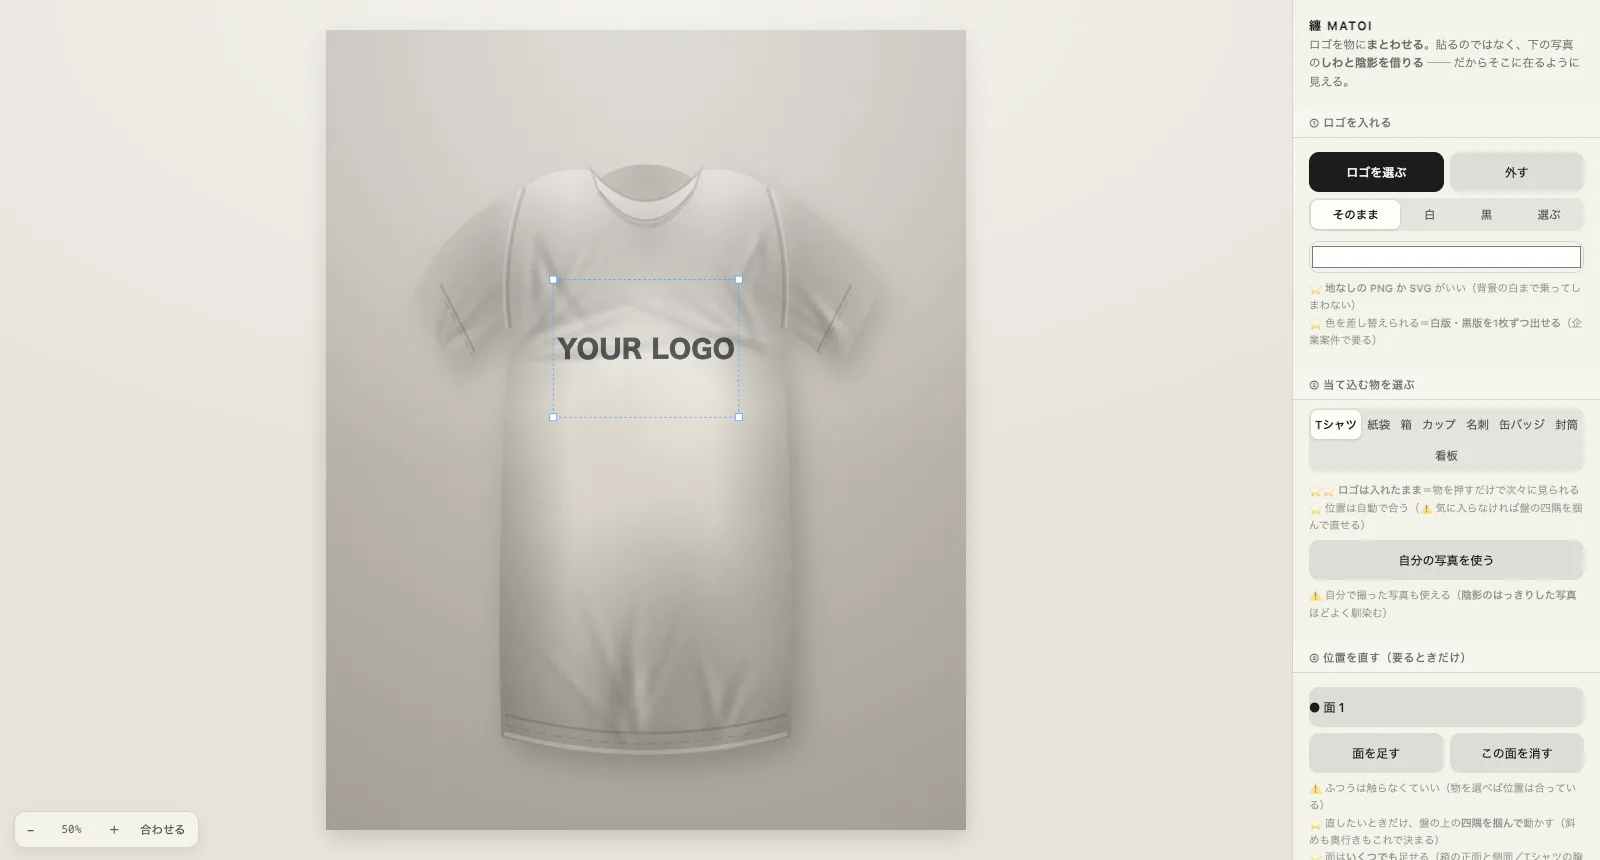
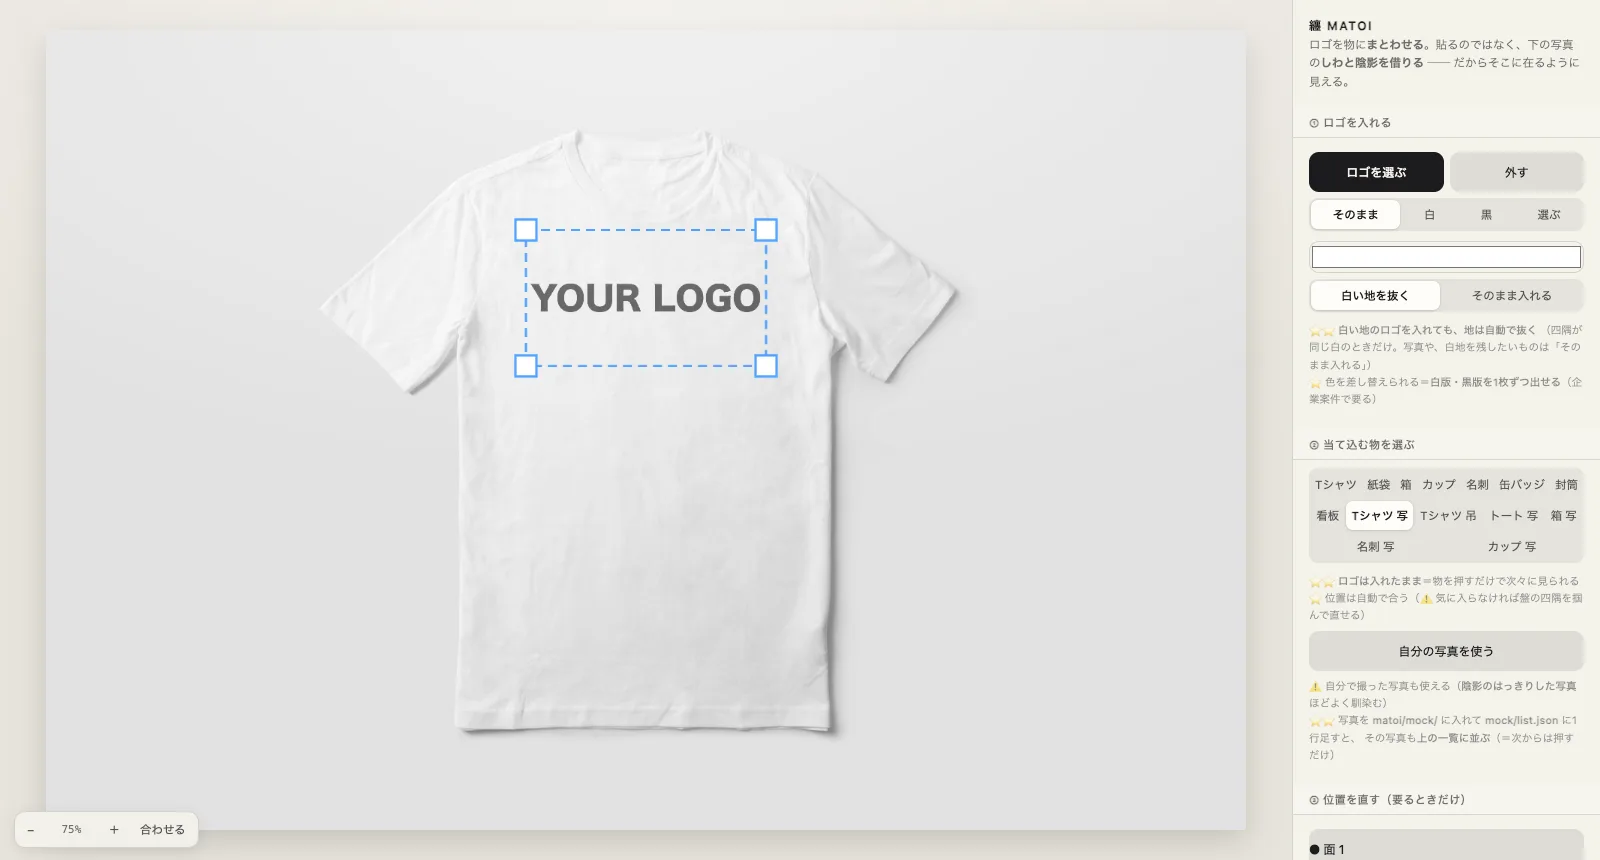
纏MATOI：写真の物を6つ入れた（Tシャツ2・トート・箱・名刺・カップ）
木下＝「Deep Research などで持ってきてくれない？ むしろ」。探して入れた。

⭐ 選ぶときに見たのは3つ ── **無地／他社のロゴや商標が写っていない／人が写っていない**。
  🔴 白い紙袋の良い写真があったが `intensa` のロゴが型押しされていたので落とした。
     企業案件の提案に出す絵に他社のロゴが写っているのは、それだけで使えない。
  ⚠ Kodak のカメラが写り込んだ平置き写真も同じ理由で落とした。
・すべて Unsplash License（商用可・帰属不要・改変可）。出どころは mock/README.md の表に
・長辺 1600px・合計 688KB に落としてある
・四隅（ロゴの位置）は1つずつ道具に描かせて目で見て直した（名刺は傾いた面）

⚠ 木下の手元にモックアップ素材は無かった（mdfind で確認）ので、こちらで探した。
   置き場と足し方は変わらない＝mock/ に入れて list.json に1行。

棚のサムネと説明文も差し替えた（写真の物が並んでいる絵に）。
回帰 20項目 全部通過。

diff --git a/interaction-design.html b/interaction-design.html
@@ -758,7 +758,7 @@
     <div class="work-visual">
       <!-- ⚠ 寸法を書いておく＝読む前でも場所が確保される（いちばん下のカードで画像を取りに行かない事故を防ぐ） -->
       <img src="assets/img/img-ui-matoi.webp" width="1600" height="860" alt="木下スタジオ（木下貴博 / 滋賀）制作：纏 MATOI — 作ったロゴをパッケージやTシャツの写真に当て込むモックアップの道具。四隅を合わせるだけでなく、下の写真のしわと陰影を借りるのでそこに在るように見える" class="work-img" loading="lazy">
-      <p class="work-desc">ロゴを1枚入れるだけで、<b>Tシャツ・紙袋・箱・カップ・名刺・缶バッジ・封筒・看板</b>に次々まとわせる。貼るのではなく、下の<b>しわと陰影を借りる</b> ── 布のたるみに沿って曲がり、影の落ちる所は暗くなる。物はぜんぶ<b>この道具の中で描いている</b>ので、権利を気にせず企業案件の提案に出せる。</p>
+      <p class="work-desc">ロゴを1枚入れるだけで、<b>Tシャツ・トート・箱・カップ・名刺・紙袋・缶バッジ・封筒・看板</b>に次々まとわせる。貼るのではなく、下の写真の<b>しわと陰影を借りる</b> ── 布のたるみに沿って曲がり、影の落ちる所は暗くなる。<b>物は写真</b>（商用可・他社ロゴなしのものを選んである）で、写真が無い物は<b>この道具の中で描いている</b>。白地のロゴを入れても地は自動で抜く。</p>
       <a href="matoi/" class="work-case-link">触ってみる →</a>
     </div>
   </div>

diff --git a/matoi/mock/README.md b/matoi/mock/README.md
@@ -35,6 +35,24 @@
   （描いた物のほうは、この道具の中で描いているので権利の心配がない）
 - 写真は長辺 2000px 程度で十分。大きすぎると開くのが遅くなる。
 
+## いま入っている写真（2026-08-28）
+
+すべて **Unsplash License**（商用利用可・帰属表示は不要・改変可）。
+選ぶときに見たのは3つ ── **無地であること／他社のロゴや商標が写っていないこと／人が写っていないこと**。
+⚠ 1枚、白い紙袋の良い写真があったが `intensa` のロゴが型押しされていたので落とした。
+　 企業案件の提案に出す絵に他社のロゴが写っているのは、それだけで使えない。
+
+| ファイル | 物 | 出どころ（Unsplash の写真 ID） |
+|---|---|---|
+| `tshirt-flat.jpg` | Tシャツ（平置き） | `photo-1651761179569-4ba2aa054997` |
+| `tshirt-hanger.jpg` | Tシャツ（ハンガー） | `photo-1778671394516-8270eac13c42` |
+| `tote.jpg` | トートバッグ | `photo-1544816155-12df9643f363` |
+| `box.jpg` | 箱（真上から） | `photo-1651761580601-4a77e280c80f` |
+| `card.jpg` | 名刺 | `photo-1623305465231-d884ce752d59` |
+| `cup.jpg` | 紙コップ | `photo-1615485736894-a2d2e6d4cd9a` |
+
+（`https://images.unsplash.com/{ID}` で元が取れる。長辺 1600px に落として置いてある）
+
 ## 置いていないとき
 
-`items` が空なら何も起きない ── 描いた物 8 つだけが並ぶ。いままで通り。
+`items` が空なら何も起きない ── 描いた物 8 つだけが並ぶ。
